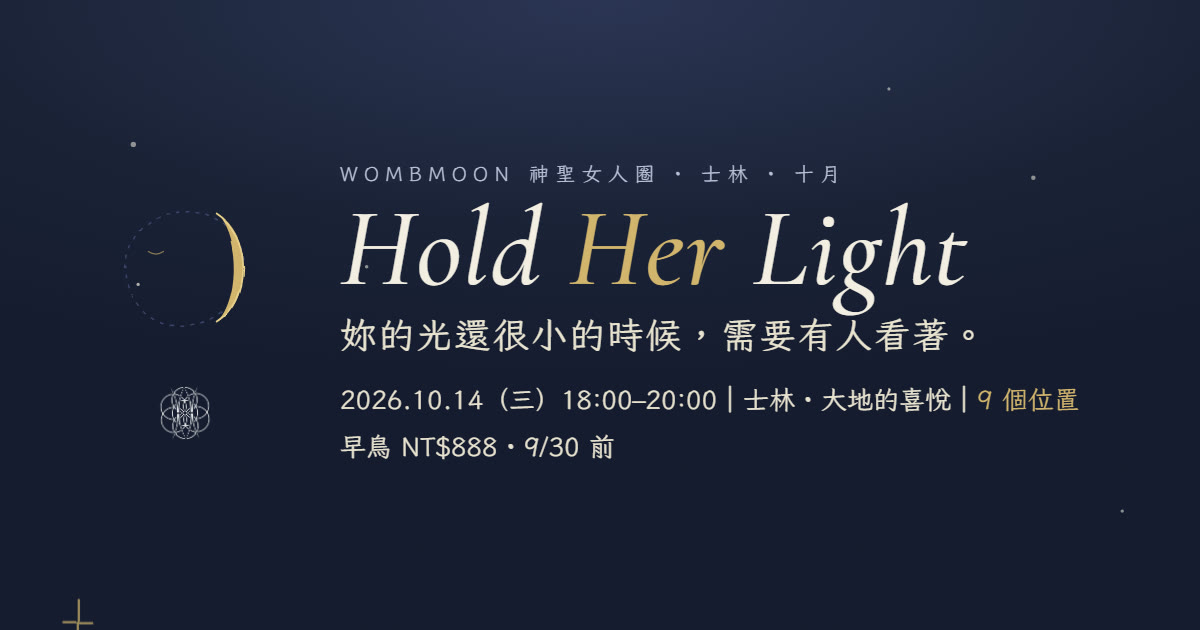
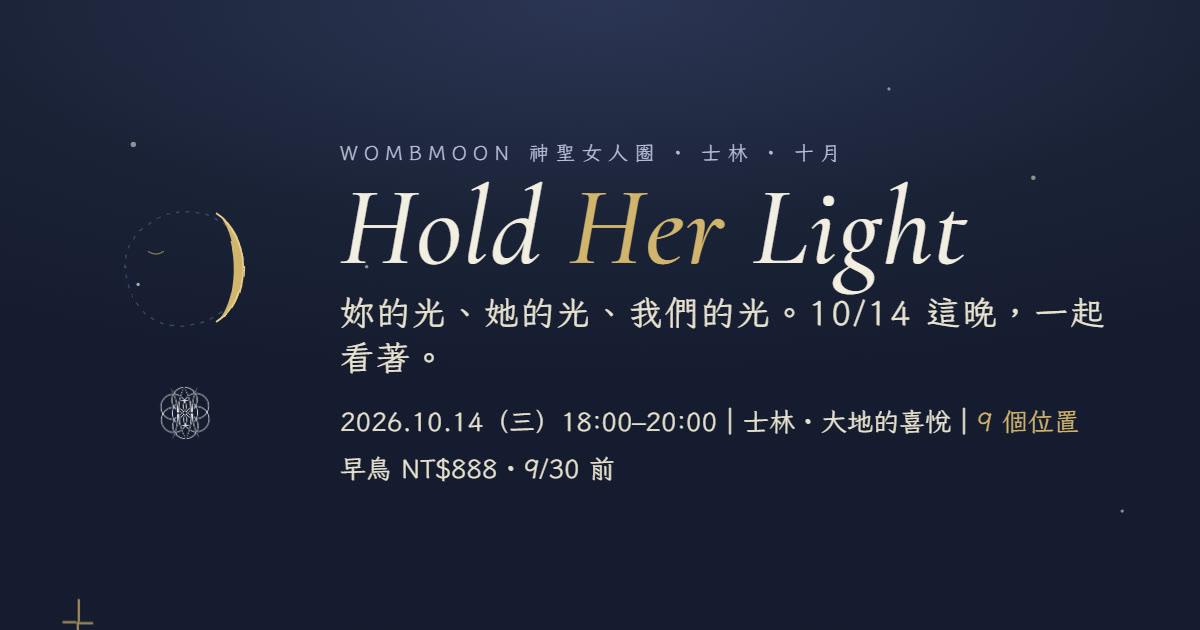
Hold Her Light 主標語定稿：妳的光、她的光、我們的光。10/14 這晚，一起看著。
Claude-Session: https://claude.ai/code/session_01ACwdKftKCkvWx561axETy8

Changed region(s): [[0.2775, 0.2111, 0.8942, 0.7841], [0.5858, 0.2111, 0.6167, 0.3016], [0.8633, 0.4825, 0.925, 0.5127]]

diff --git a/wombmoon/hold-her-light/index.html b/wombmoon/hold-her-light/index.html
@@ -4,14 +4,14 @@
 <meta charset="UTF-8">
 <meta name="viewport" content="width=device-width, initial-scale=1.0">
 <title>Hold Her Light｜Wombmoon 神聖女人圈・10/14 士林</title>
-<meta name="description" content="妳的光還很小的時候，需要有人看著。2026/10/14（三）18:00–20:00，士林・大地的喜悅。新月後第三天的實體女人圈，9 個位置。Wombmoon 認證引導師 Milliya 帶領。">
+<meta name="description" content="妳的光、她的光、我們的光。10/14 這晚，一起看著。2026/10/14（三）18:00–20:00，士林・大地的喜悅。新月後第三天的實體女人圈，9 個位置。Wombmoon 認證引導師 Milliya 帶領。">
 <link rel="canonical" href="https://birthwithmilliya.com/wombmoon/hold-her-light/">
 <meta property="og:type" content="website">
 <meta property="og:locale" content="zh_TW">
 <meta property="og:site_name" content="Wombmoon 神聖女人圈・Milliya">
 <meta property="og:url" content="https://birthwithmilliya.com/wombmoon/hold-her-light/">
 <meta property="og:title" content="Hold Her Light｜10/14 士林・新月後第三天的女人圈">
-<meta property="og:description" content="妳的光還很小的時候，需要有人看著。2026/10/14（三）18:00–20:00・大地的喜悅（穿過一間花店走進來）・9 個位置・早鳥 9/30 前 NT$888。">
+<meta property="og:description" content="妳的光、她的光、我們的光。10/14 這晚，一起看著。2026/10/14（三）18:00–20:00・大地的喜悅（穿過一間花店走進來）・9 個位置・早鳥 9/30 前 NT$888。">
 <meta property="og:image" content="https://birthwithmilliya.com/wombmoon/hold-her-light/assets/og-hold-her-light.jpg">
 <meta property="og:image:width" content="1200">
 <meta property="og:image:height" content="630">
@@ -225,7 +225,7 @@
       </svg>
     </div>
     <h1>Hold <em>Her</em> Light</h1>
-    <div class="zh">妳的光還很小的時候，需要有人看著。</div>
+    <div class="zh">妳的光、她的光、我們的光。10/14 這晚，一起看著。</div>
     <p class="whisper">Hi Women，<br>妳最近是不是剛開始了一件事——<br>還沒有成果，還不敢告訴太多人？</p>
     <div class="meta">
       <span>🌙 2026.10.14（三）18:00–20:00</span>

diff --git a/wombmoon/index.html b/wombmoon/index.html
@@ -322,7 +322,7 @@
   <section class="svc-section">
     <div class="container svc-narrow reveal">
       <p class="section-eyebrow">十月・士林實體場</p>
-      <h2>《Hold Her Light》妳的光還很小的時候，需要有人看著</h2>
+      <h2>《Hold Her Light》妳的光、她的光、我們的光。這晚，一起看著</h2>
       <p><strong>2026/10/14（三）18:00–20:00</strong>｜大地的喜悅（士林，穿過一間花店走進來）｜上限 9 人</p>
       <p>新月後第三天的一場實體圈——不是許願，是為剛萌芽的自己，找到第一批見證者。兩個小時：子宮呼吸、三人深度傾聽、月牙火儀式、大圈見證。早鳥 9/30 前 NT$888。</p>
       <div class="contact-actions" style="margin-top:30px;">
